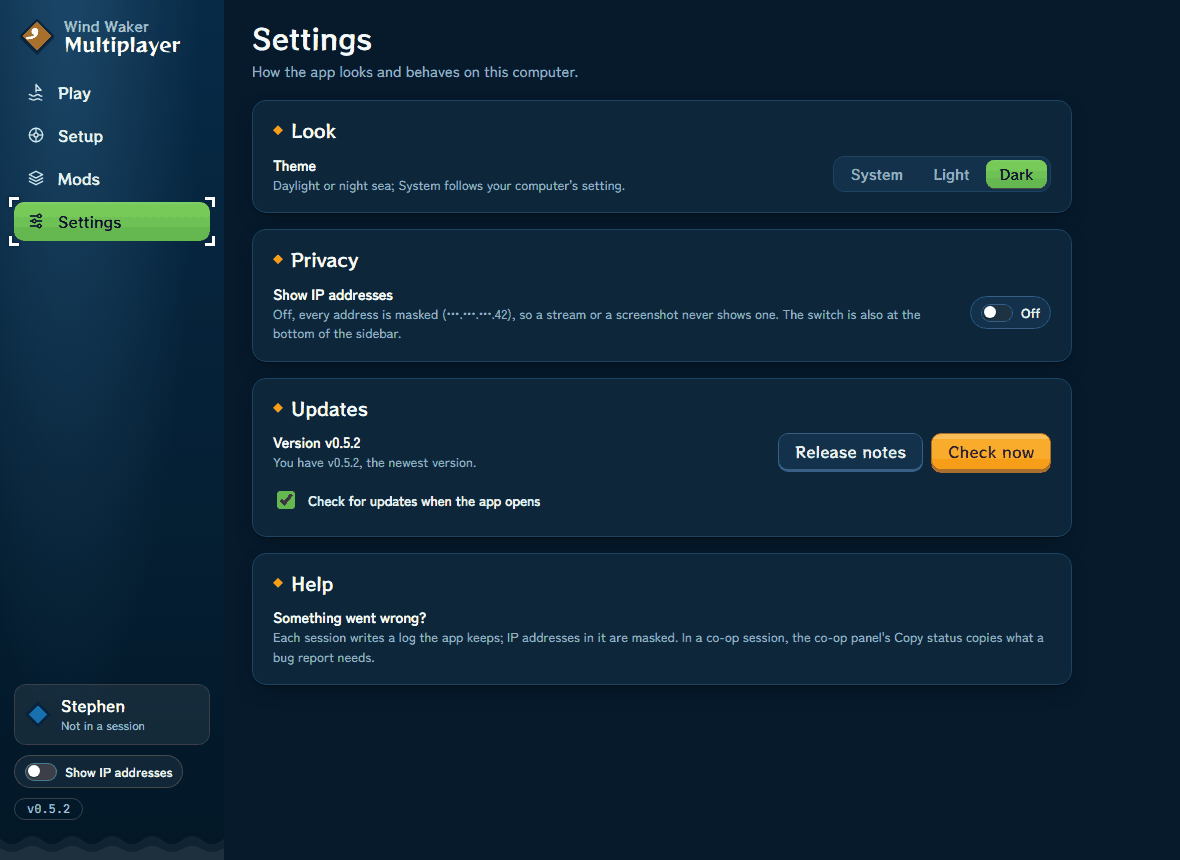
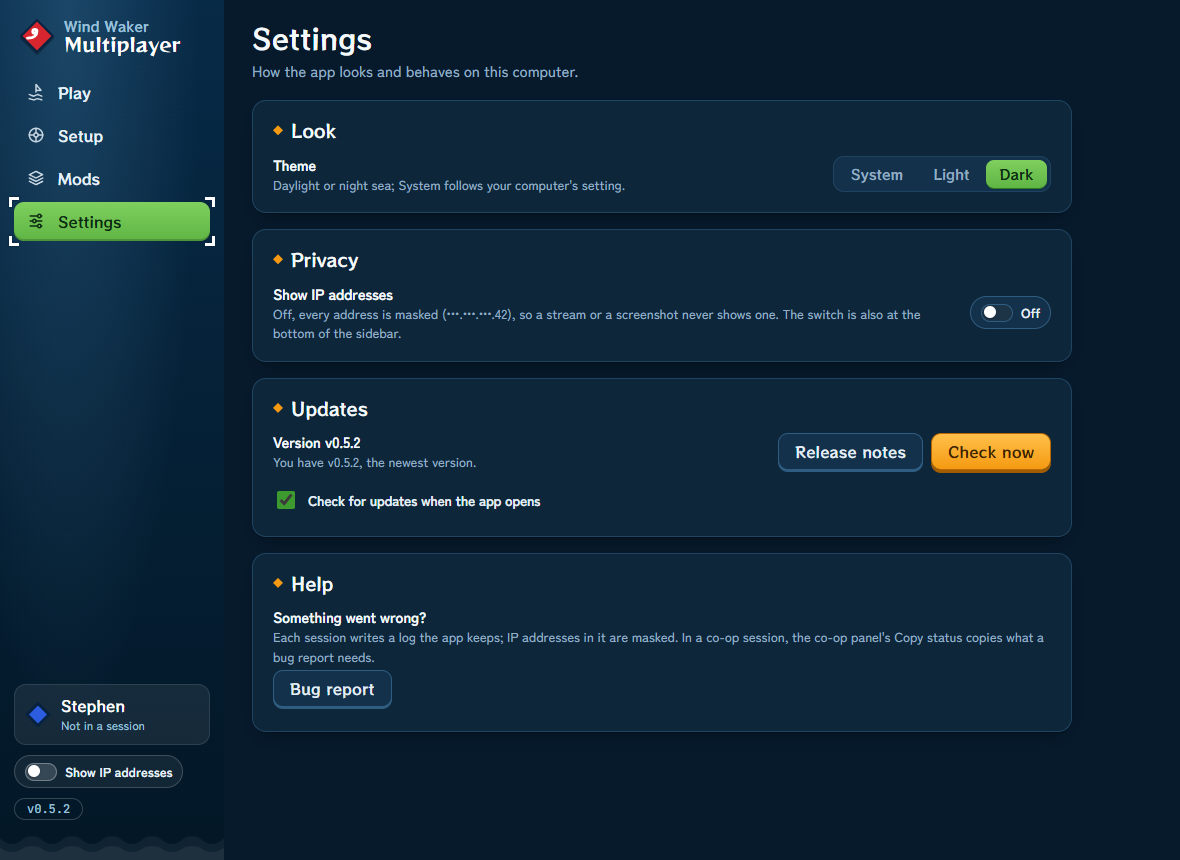
App: the Bug report button in Settings' Help card (#help-actions)
The sidebar layout has no header, so the Bug report button from the
appguard track moves into the slot left for it in Settings' Help card.
README, the v0.6.0 notes, TESTING.md and bugreport.js say where it is
now; the Settings shots are retaken with the button.

diff --git a/internal/gui/frontend/bugreport.js b/internal/gui/frontend/bugreport.js
@@ -1,6 +1,7 @@
-// bugreport.js: the header's "Bug report" button. Bridge.SaveBugReport
-// writes one zip with the session logs, Dolphin's log and the
-// diagnostics, every file redacted and no game files or saves
+// bugreport.js: the "Bug report" button in Settings' Help card
+// (#help-actions). Bridge.SaveBugReport writes one zip with the session
+// logs, Dolphin's log and the diagnostics, every file redacted and no
+// game files or saves
 // (internal/bugreport); this says where it is and, in the window, opens
 // its folder. Nothing is uploaded. Self-contained (its own <script> in
 // index.html), so the rest of the frontend doesn't know it is there.

diff --git a/docs/TESTING.md b/docs/TESTING.md
@@ -698,7 +698,7 @@ The rig scripts that start Dolphin themselves (the handoff's `boot2.sh` and the 
 
 ### App: the bug-report zip, the game-files guard and the release notes
 
-The header's **Bug report** button and `ww-multiplayer bug-report` (`internal/bugreport`) write one zip under `<UserConfigDir>/ww-multiplayer/bug-reports`; `release.yml` publishes `docs/release-notes/<tag>.md` and runs `tools/check_game_files` on every asset. The unit tests cover the zip's contents and redaction on temp files, and the workflow tests read the YAML; none of it has run on a real profile, a real Dolphin log or a real Actions run.
+The **Bug report** button (Settings' Help card) and `ww-multiplayer bug-report` (`internal/bugreport`) write one zip under `<UserConfigDir>/ww-multiplayer/bug-reports`; `release.yml` publishes `docs/release-notes/<tag>.md` and runs `tools/check_game_files` on every asset. The unit tests cover the zip's contents and redaction on temp files, and the workflow tests read the YAML; none of it has run on a real profile, a real Dolphin log or a real Actions run.
 
 - [ ] **BR-1 app button, Windows**: after a real hosted session, press **Bug report**. The toast names the zip as `~\AppData\Roaming\ww-multiplayer\bug-reports\...zip` and **Show folder** opens it in Explorer. The zip holds about.txt, contents.txt, the newest five `logs/*.log` and, with Dolphin's logger writing to file, `dolphin/dolphin.log`. Search every file for the account name, the LAN and public IPs, the join code, the reconnect token and any DDNS, playit or tailnet host name that was joined or hosted on: none is there (contents.txt says a dotless computer name is not masked). No `.sav`, `.gci`, `.raw`, disc or world file is in it.
 - [ ] **BR-2 app button, ui --browser and macOS**: in `ui --browser` the toast shows the path with no **Show folder**; on a Mac the button writes under `~/Library/Application Support/ww-multiplayer/bug-reports` and **Show folder** opens Finder.
@@ -732,7 +732,7 @@ The app's frontend (`internal/gui/frontend`) can be looked at without a session:
 - [ ] **Updates in Settings**: the version, "Check for updates when the app opens" (saved), Check now and Release notes work; a newer release's banner still shows on Home, Mods and Settings and never in a session, where Settings says Update is on the banner once you leave.
 - [ ] **Setup, host, join, lobby, Start, co-op, Mods** run end to end as before (native file pickers, Copy, Kick, Ready, the co-op world choice and its Advanced fields, the joiner's rule chips match the host's choice).
 - [ ] **What co-op shares** in a co-op session in DRC: the shares row lists the host's features; DRC's row counts its keys, sources found and doors open as the game does (`/status`'s `small keys of table 3 (DRC)` line), a dungeon not yet entered says "Not seen yet", and a held story bit shows under "Story and hearts" while `/status` lists it. A dry run says it shares nothing. A host with story off says "Story isn't shared in this session"; a disc with no co-op stage tables says small keys aren't derived, as `/status` does.
-- [ ] **Help slot**: Settings' Help card holds the Bug report button in its `#help-actions` slot; it saves the zip and says where (in the window, with Show folder), as the header button did before.
+- [ ] **Help slot**: Settings' Help card holds the Bug report button in its `#help-actions` slot; it saves the zip and says where (in the window, with Show folder).
 - [ ] **Narrow and DPI**: at the minimum window size (760×560) the sidebar becomes a top bar and nothing overflows sideways; at 150% scaling the text stays sharp.
 
 ### Release defaults (pre-release live checklist)

diff --git a/docs/release-notes/v0.6.0.md b/docs/release-notes/v0.6.0.md
@@ -31,7 +31,7 @@ The window needs Microsoft's WebView2 runtime, which Windows 11 and current Wind
 
 Shared progress is off unless the host turns it on: in the lobby the host picks **New world** or **Continue**, and the app guides everyone through binding a save file. Plain multiplayer needs none of it.
 
-**Reporting a bug.** The header's **Bug report** button saves one zip with your newest session logs, Dolphin's own log (when Dolphin writes one) and the app's diagnostics, and **Show folder** opens where it is. Your home folder, IP addresses, join codes, host names you joined on (`•••.duckdns.org:25570`) and tokens are masked, and your disc, saves and co-op worlds are never in it. Nothing is uploaded: attach the zip to your issue. From a terminal, `ww-multiplayer bug-report` writes the same zip.
+**Reporting a bug.** The **Bug report** button in Settings' Help card saves one zip with your newest session logs, Dolphin's own log (when Dolphin writes one) and the app's diagnostics, and **Show folder** opens where it is. Your home folder, IP addresses, join codes, host names you joined on (`•••.duckdns.org:25570`) and tokens are masked, and your disc, saves and co-op worlds are never in it. Nothing is uploaded: attach the zip to your issue. From a terminal, `ww-multiplayer bug-report` writes the same zip.
 
 IP addresses are hidden on screen by default (`•••.•••.•••.42`), so you can stream the app; the host's share card has Show and Copy.
 

diff --git a/README.md b/README.md
@@ -239,7 +239,7 @@ To turn it off, every player starts the app with `WW_ENEMY_SYNC=0` (the
 whole enemy layer) or `WW_ENEMY_REMOTE=off` (bodies only); all players
 set the same value. Known limits: [05-known-issues.md](docs/05-known-issues.md#shared-enemies).
 
-**Reporting a bug.** The header's **Bug report** button saves one zip
+**Reporting a bug.** The **Bug report** button in Settings' Help card saves one zip
 with your newest session logs, Dolphin's own log (when Dolphin's logger
 writes to a file) and the app's diagnostics; **Show folder** opens where it is. Every
 file in it is redacted first: your home folder becomes `~`, IP addresses
